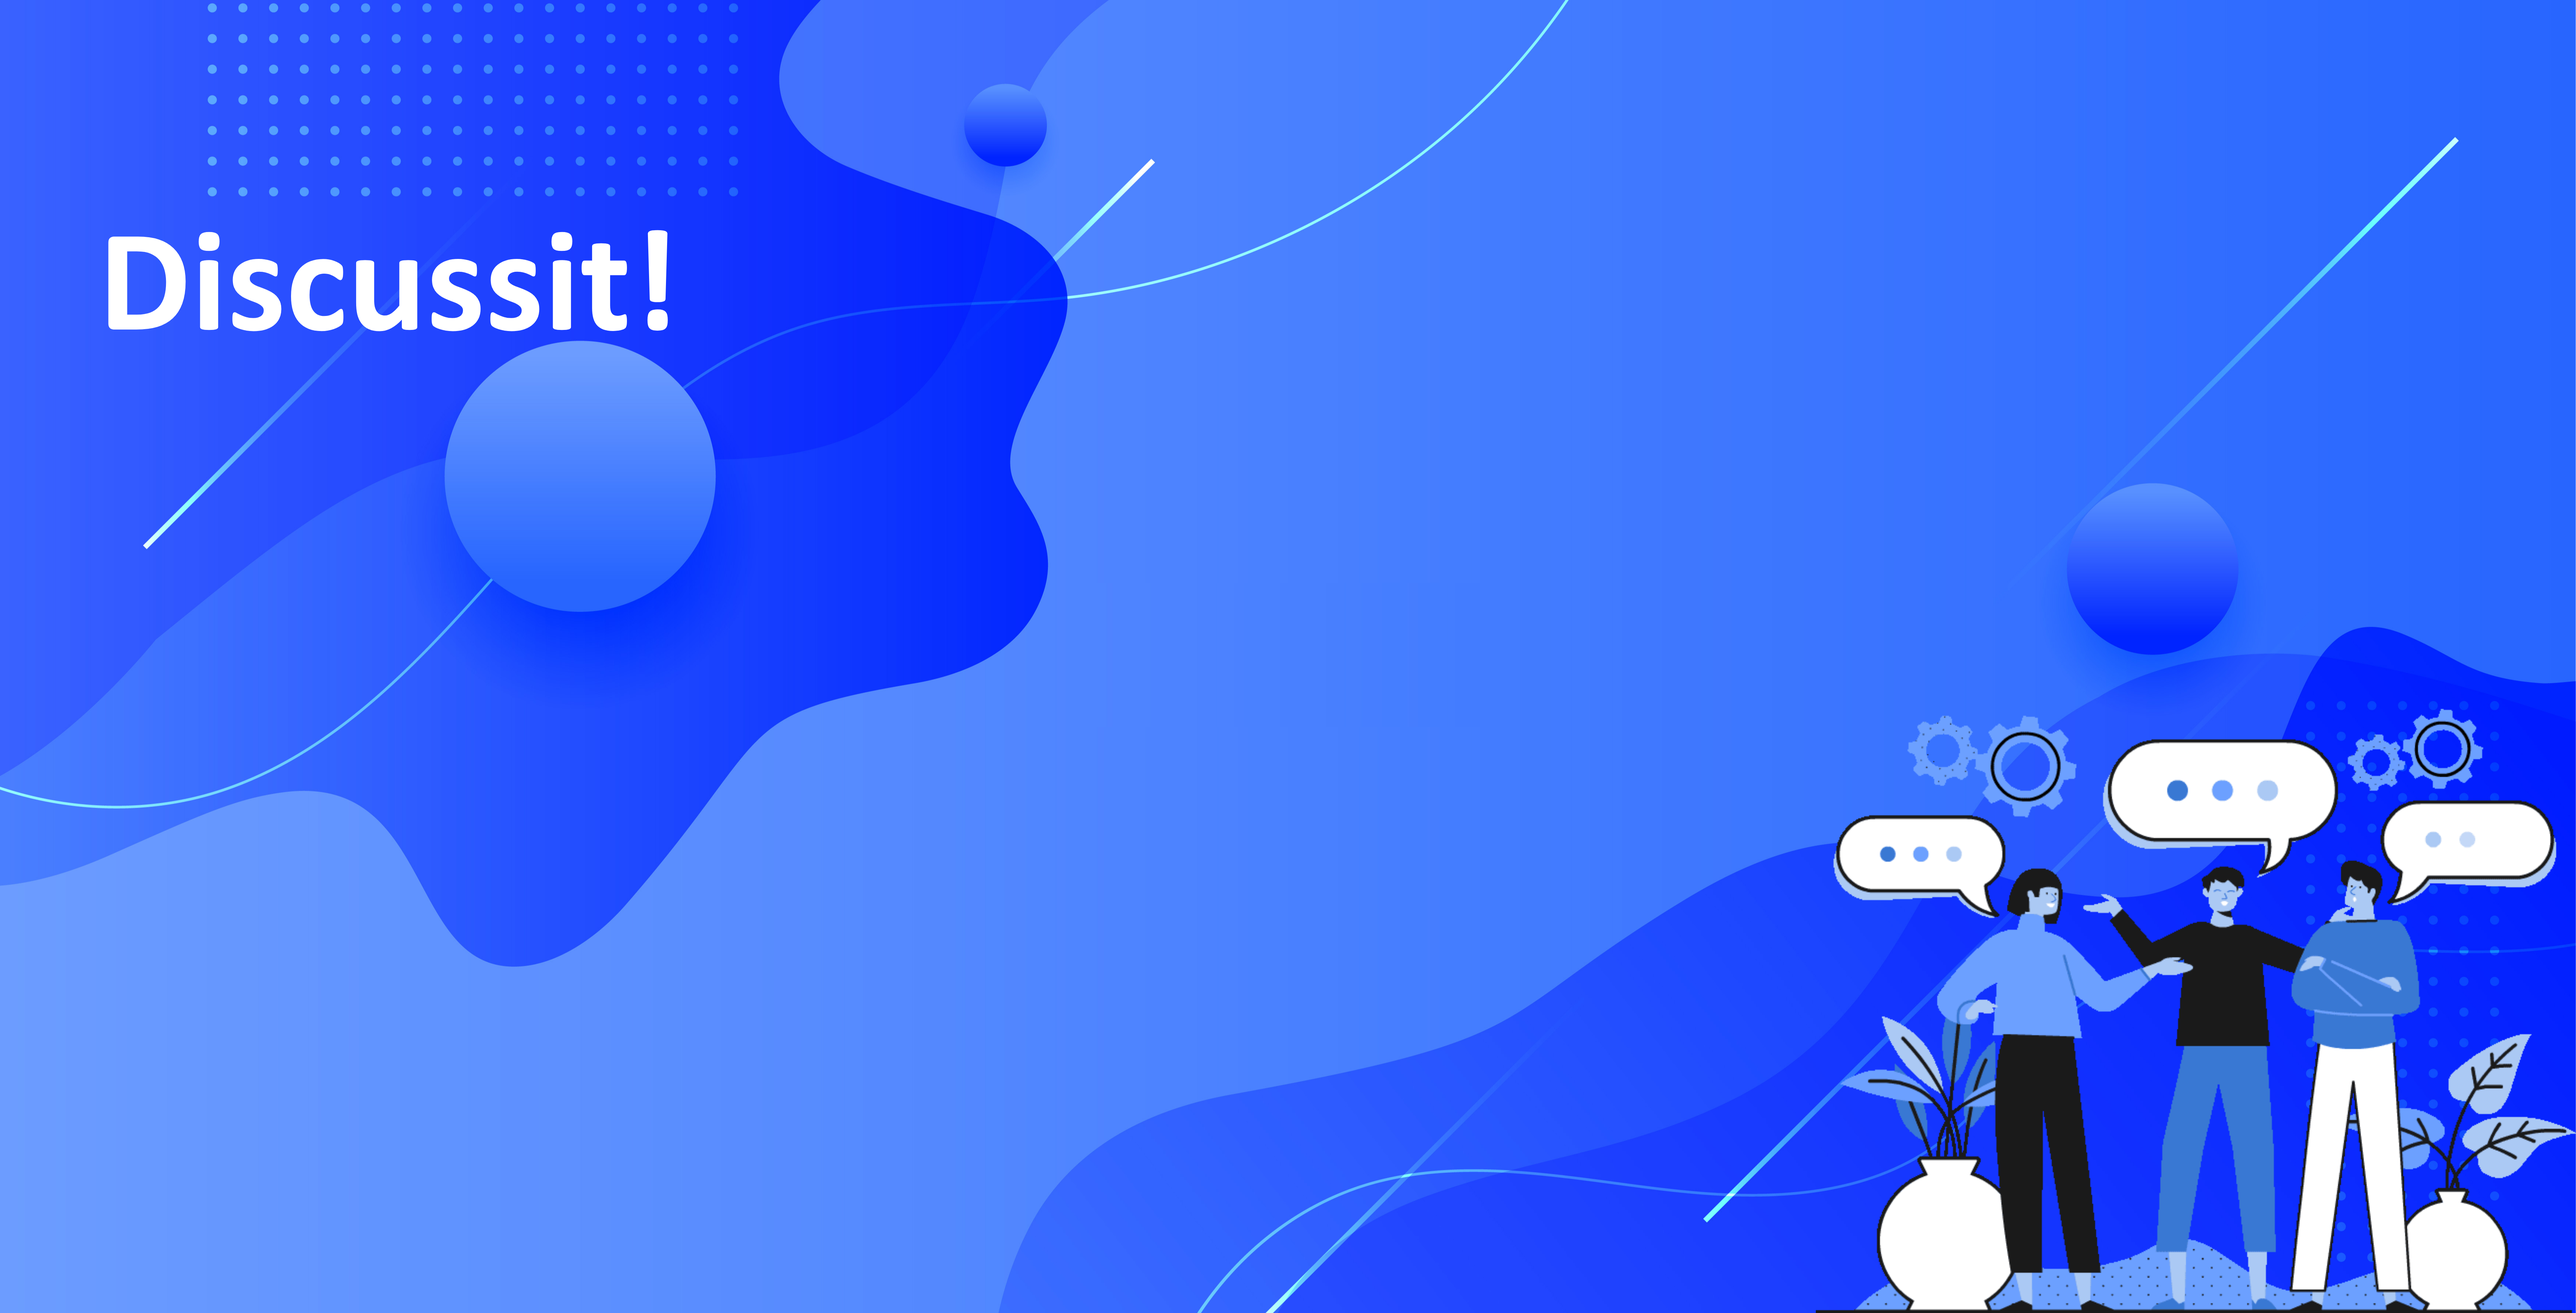
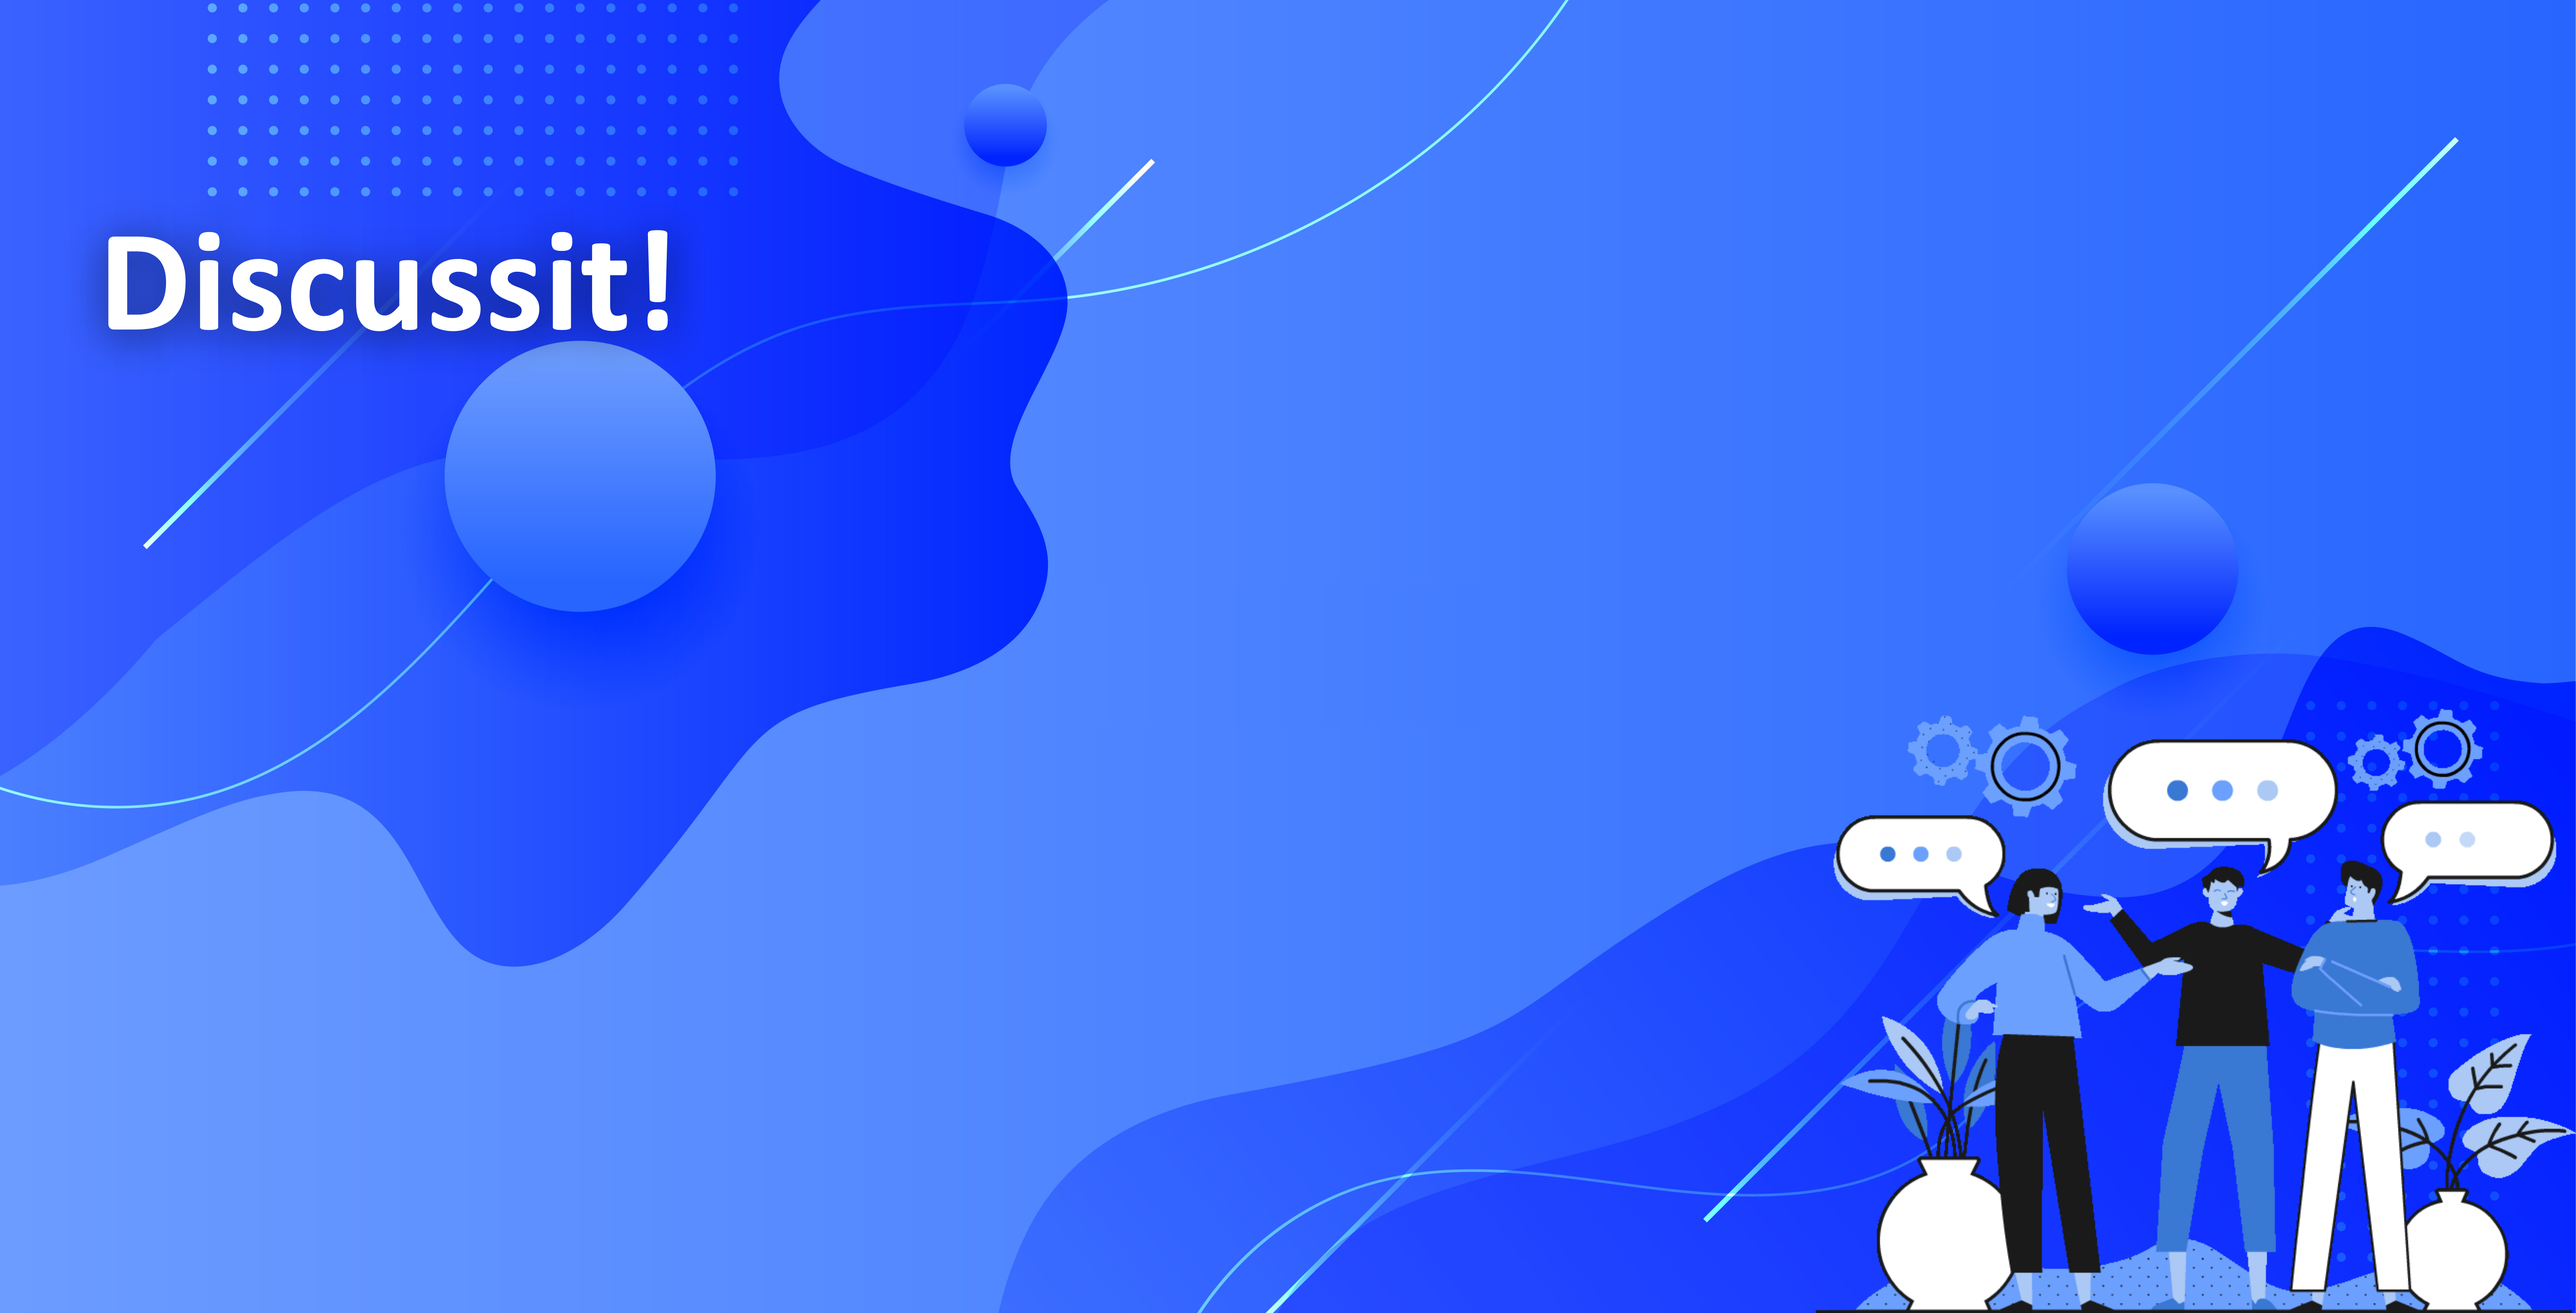
feat:- announcement notif added, can bookmark a post

Changed region(s): [[0.0311, 0.1555, 0.2802, 0.2798]]

diff --git a/src/app/components/layout/sidenavigation/sidenav-custom/sidenav-custom.component.ts b/src/app/components/layout/sidenavigation/sidenav-custom/sidenav-custom.component.ts
@@ -1,5 +1,5 @@
 import { Component, Input, signal } from '@angular/core';
-import { Router } from '@angular/router';
+import { NavigationEnd, Router } from '@angular/router';
 import { TokenHandler } from 'src/app/util/tokenHandler';
 import Swal from 'sweetalert2';
 import {
@@ -10,6 +10,7 @@ import {
 } from '@azure/msal-angular';
 import { AccountsService } from 'src/app/service/HttpServices/account.service';
 import { environment } from 'src/app/environments/environment';
+import { Subscription, interval, takeWhile, timer } from 'rxjs';
 
 export type MenuItem = {
   icon: string;
@@ -33,6 +34,9 @@ export class SidenavCustomComponent {
   @Input() set collapsed(val: boolean) {
     this.sideNavCollapsed.set(val);
   }
+  private visitedAnnouncements = false; // Flag to track if the user has visited announcements
+  private timerSubscription: Subscription | undefined;
+  
   menuItems = signal<MenuItem[]>([
     {
       icon: 'home',
@@ -60,6 +64,59 @@ export class SidenavCustomComponent {
       routes: '/guidelines',
     },
   ]);
+
+  ngOnInit() {
+    // Check if the reminder has been shown previously
+    const reminderShown = sessionStorage.getItem('announcementReminderShown');
+
+    // If not shown previously or user logs in again, show the reminder
+    if (!reminderShown || reminderShown === 'false') {
+      // Subscribe to router events to track navigation
+      this.router.events.subscribe((event) => {
+        if (event instanceof NavigationEnd && event.url === '/notices') {
+          // If the user visits the announcements page, set visitedAnnouncements to true
+          this.visitedAnnouncements = true;
+          // Unsubscribe from timer if user visits announcements page
+          if (this.timerSubscription) {
+            this.timerSubscription.unsubscribe();
+          }
+        }
+      });
+
+      // Start a timer to remind users to check out announcements after 2 minutes if they haven't visited the announcements page
+      this.timerSubscription = timer(180000) // 3 minutes in milliseconds
+        .pipe(takeWhile(() => !this.visitedAnnouncements))
+        .subscribe(() => {
+          this.showAnnouncementReminder();
+        });
+
+      // Store that the reminder has been shown
+      sessionStorage.setItem('announcementReminderShown', 'true');
+    }
+  }
+
+  async showAnnouncementReminder() {
+    // Show a SweetAlert2 modal to remind users to check out announcements
+    Swal.fire({
+      title: 'Don\'t Miss Out!',
+      html: `
+        <div style="text-align: center;">
+          <img src="assets/images/happy-face.png" alt="Announcement Image" style="max-width: 20%; height: auto;">
+          <p style="margin-top: 10px; font-size: 16px; line-height: 1.5;">
+            Hey there! <br>
+            We hope you're having a great time on <b>Discussit!</b> <br> 🌟 <br>
+            Don't miss out on the latest updates from your Community Admin - 
+            head over to the <a href="notices" style="text-decoration:none;">Announcements page</a> now to discover what exciting news they have to share with you. <br>
+            Let's keep the discussions going! 🚀
+          </p>
+        </div>
+      `,
+      confirmButtonText: 'OK',
+      confirmButtonColor: 'rgb(51, 171, 165)',
+    });
+  }
+  
+  
 
   userId!: string | null;
   async handleLogOut() {

diff --git a/src/app/features/user/thread-replies/thread-replies.component.ts b/src/app/features/user/thread-replies/thread-replies.component.ts
@@ -4,6 +4,7 @@ import { BsModalService } from 'ngx-bootstrap/modal';
 import { switchMap } from 'rxjs';
 import { SuccessPopupComponent } from 'src/app/components/ui/success-popup/success-popup.component';
 import { LoaderService } from 'src/app/service/HttpServices/loader.service';
+import { SavedPost } from 'src/app/service/HttpServices/saved.service';
 import {
   ThreadReplies,
   ThreadRepliesService,
@@ -17,6 +18,9 @@ import {
   Vote,
   VoteService,
 } from 'src/app/service/HttpServices/vote.service';
+import {
+  SavedService,
+} from 'src/app/service/HttpServices/saved.service';
 
 @Component({
   selector: 'app-thread-replies',
@@ -34,7 +38,8 @@ export class ThreadRepliesComponent {
     private threadService: ThreadService,
     private voteService: VoteService,
     private loaderService: LoaderService,
-    private modalService: BsModalService
+    private modalService: BsModalService,
+    private savedService: SavedService,
   ) {}
 
   breadcrumbs = [
@@ -85,12 +90,25 @@ export class ThreadRepliesComponent {
         next: (repliesData: any) => {
           this.threadReplies = repliesData;
           this.threadRepliesStatus = true;
+           // Fetch and highlight bookmarked threads
+            this.highlightBookmarkedThreads(this.thread!);
         },
         error: (error: Error) => {
           console.log('Error', error);
           this.threadRepliesStatus = false;
         },
       });
+  }
+
+  highlightBookmarkedThreads(thread : Thread) {
+    const userID= sessionStorage.getItem('userID');
+    this.savedService.getSavedPostsByUserId(userID).subscribe(bookmarks => {
+      bookmarks.forEach(bookmark => {
+        if (thread && thread?.threadID === bookmark.threadID) {
+          thread.isBookmarked = true;
+        }
+      });
+    });
   }
 
   onDeleteReply(reply: ThreadReplies) {
@@ -145,6 +163,16 @@ export class ThreadRepliesComponent {
       next: (response) => {},
       error: (error) => {
         console.error('Error sending downvote', error);
+        this.loadThread();
+      },
+    });
+  }
+
+  handleSavedPost(saved: SavedPost) {
+    this.savedService.savePost(saved).subscribe({
+      next: (response) => {},
+      error: (error) => {
+        console.error('Error saving post', error);
         this.loadThread();
       },
     });

diff --git a/src/app/components/ui/thread-view/thread-view.component.ts b/src/app/components/ui/thread-view/thread-view.component.ts
@@ -13,6 +13,10 @@ import {
 } from 'src/app/service/HttpServices/vote.service';
 import { SuccessPopupComponent } from '../success-popup/success-popup.component';
 import { DeleteModalComponent } from '../delete-modal/delete-modal.component';
+import { SavedPost } from 'src/app/service/HttpServices/saved.service';
+import {
+  SavedService,
+} from 'src/app/service/HttpServices/saved.service';
 
 @Component({
   selector: 'app-thread-view',
@@ -23,9 +27,9 @@ export class ThreadViewComponent {
   @Input() thread?: Thread;
   @Output() upvoteEvent = new EventEmitter<ThreadVote>();
   @Output() downvoteEvent = new EventEmitter<ThreadVote>();
+  @Output() savedPostEvent = new EventEmitter<SavedPost>();
   ActiveUserID: string | null = sessionStorage.getItem('userID');
   isAdmin?: boolean = false;
-
   confirmModal!: BsModalRef;
   successModal!: BsModalRef;
   constructor(
@@ -34,7 +38,8 @@ export class ThreadViewComponent {
     private router: Router,
     private userService: UserService,
     private threadService: ThreadService,
-    private modalService: BsModalService
+    private modalService: BsModalService,
+    private savedService: SavedService
   ) {}
 
   communityCategoryMappingID!: number;
@@ -74,6 +79,23 @@ export class ThreadViewComponent {
       isDeleted: false,
     };
     this.downvoteEvent.emit(vote);
+  }
+
+  toggleBookmark(thread : Thread) {
+    thread.isBookmarked = !thread.isBookmarked;
+    const saved: SavedPost = {
+      userID: sessionStorage.getItem('userID'),
+      threadID: thread.threadID,
+    };
+    if (thread.isBookmarked) {
+    this.savedPostEvent.emit(saved);
+    }
+    else {
+      // If the bookmark is toggled off, call the deleteSavedPost method
+      this.savedService.deleteSavedPost(saved.userID, saved.threadID).subscribe(response => {
+        // Do any additional logic if needed
+      });
+    }
   }
 
   postReply(threadID: number) {

diff --git a/src/app/service/HttpServices/saved.service.ts b/src/app/service/HttpServices/saved.service.ts
@@ -1,0 +1,35 @@
+import { HttpClient } from '@angular/common/http';
+import { Injectable } from '@angular/core';
+import { Observable } from 'rxjs';
+import { environment } from 'src/app/environments/environment';
+
+export interface SavedPost {
+  SavedPostID? : number ;
+  userID: string | null;
+  threadID: number;
+}
+
+@Injectable({
+  providedIn: 'root'
+})
+export class SavedService {
+  apiurl: string = environment.apiUrl;
+  URL = this.apiurl + 'SavedPost/save'; 
+  constructor(private http: HttpClient) {}
+ 
+  savePost(post: SavedPost): Observable<any> {
+    return this.http.post<any>(this.URL, post);
+  }
+
+  deleteSavedPost(userID: string | null, threadID: number): Observable<any> {
+    // Construct the URL to delete the saved post
+    const deleteUrl = `${this.apiurl}SavedPost/${userID}/${threadID}`; 
+    return this.http.delete<any>(deleteUrl);
+  }
+
+  // Method to get saved posts by user ID
+  getSavedPostsByUserId(userID: string | null): Observable<SavedPost[]> {
+    const savedurl = `${this.apiurl}SavedPost/${userID}`;
+    return this.http.get<SavedPost[]>(savedurl);
+  }
+}

diff --git a/src/app/components/ui/thread-view/thread-view.component.html b/src/app/components/ui/thread-view/thread-view.component.html
@@ -55,6 +55,7 @@
         [innerHTML]="thread.content"
       ></div>
     </div>
+    <div class="owner-bookmark-controls">
     <div class="owner-controls" *ngIf="isCurrentUser(thread) || isAdmin">
       <div *ngIf="thread.threadStatusName == 'Open'" class="owner-control">
         <mat-icon
@@ -89,5 +90,16 @@
         </mat-icon>
       </div> -->
     </div>
+    <div class="user-control">
+      <mat-icon
+        class="your_icon"
+        (click)="toggleBookmark(thread)"
+        matTooltip="Bookmark"
+        [ngStyle]="{ color: thread.isBookmarked ? 'green' : 'inherit' }"
+      >
+        {{ thread.isBookmarked ? 'bookmark' : 'bookmark_border' }}
+      </mat-icon>
+    </div>
+  </div>
   </div>
 </div>

diff --git a/src/app/saved.service.spec.ts b/src/app/saved.service.spec.ts
@@ -1,0 +1,16 @@
+import { TestBed } from '@angular/core/testing';
+
+import { SavedService } from './service/HttpServices/saved.service';
+
+describe('SavedService', () => {
+  let service: SavedService;
+
+  beforeEach(() => {
+    TestBed.configureTestingModule({});
+    service = TestBed.inject(SavedService);
+  });
+
+  it('should be created', () => {
+    expect(service).toBeTruthy();
+  });
+});

diff --git a/src/app/features/user/category-threads/category-threads.component.ts b/src/app/features/user/category-threads/category-threads.component.ts
@@ -31,6 +31,7 @@ interface Thread {
   downVoteCount: number;
   tagNames: string[];
   replyCount: number;
+  isBookmarked?:boolean;
 }
 
 @Component({
@@ -101,7 +102,6 @@ export class CategoryThreadsComponent implements OnInit {
         },
       });
   }
-
   // paginations logics
 
   changePage(newPage: number) {

diff --git a/src/app/features/user/thread-replies/thread-replies.component.html b/src/app/features/user/thread-replies/thread-replies.component.html
@@ -18,6 +18,7 @@
     [thread]="thread"
     (upvoteEvent)="handleThreadUpvote($event)"
     (downvoteEvent)="handleThreadDownvote($event)"
+    (savedPostEvent)="handleSavedPost($event)"
   >
   </app-thread-view>
   <br />

diff --git a/src/app/features/admin-login/admin-login.component.css b/src/app/features/admin-login/admin-login.component.css
@@ -1,5 +1,5 @@
 main {
-  background-image: url("../../../assets/images/bg-login.jpg");
+  background-image: url("../../../assets/images/Discussit!.png");
   background-size: cover;
   min-height: 100vh;
 }

diff --git a/src/app/features/login/login.component.css b/src/app/features/login/login.component.css
@@ -1,5 +1,5 @@
 main {
-  background-image: url("../../../assets/images/bg-login.jpg");
+  background-image: url("../../../assets/images/Discussit!.png");
   background-size: cover;
   min-height: 100vh;
 }

diff --git a/src/app/features/logout/logout.component.css b/src/app/features/logout/logout.component.css
@@ -1,5 +1,5 @@
 main {
-  background-image: url("../../../assets/images/bg-login.jpg");
+  background-image: url("../../../assets/images/Discussit!.png");
   background-size: cover;
   min-height: 100vh;
 }

diff --git a/src/app/features/unauthorised/unauthorised.component.css b/src/app/features/unauthorised/unauthorised.component.css
@@ -1,5 +1,5 @@
 main {
-  background-image: url("../../../assets/images/bg-login.jpg");
+  background-image: url("../../../assets/images/Discussit!.png");
   background-size: cover;
   min-height: 100vh;
 }
